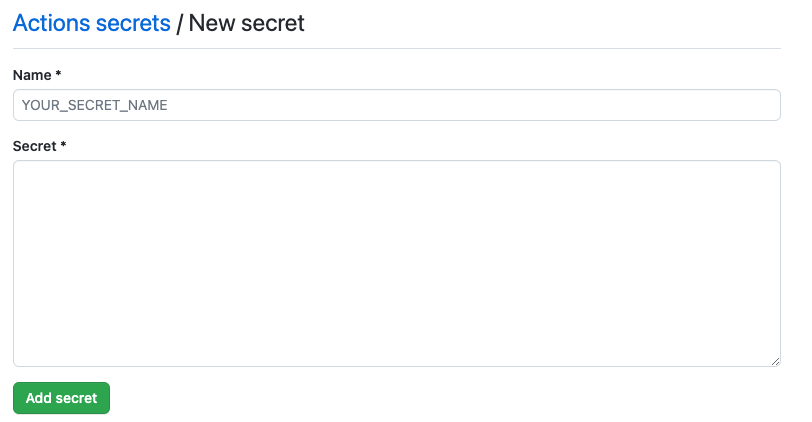
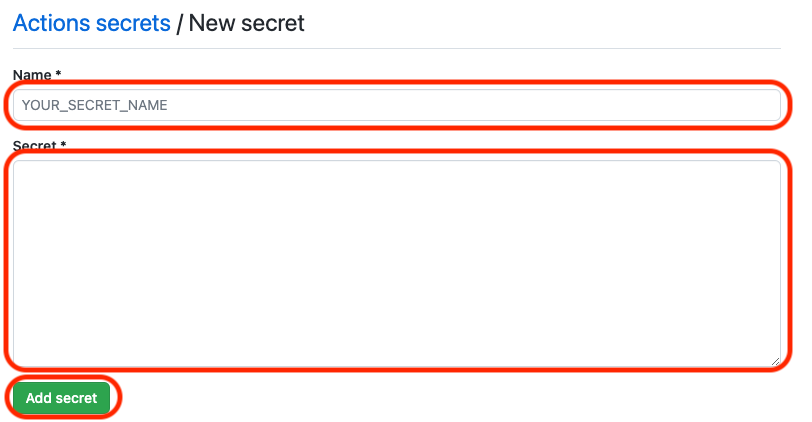
Continue updating GitHub docs

Changed region(s): [[0.0, 0.3389, 0.9852, 1.0], [0.0, 0.1848, 0.9852, 0.3081]]

diff --git a/docs/gh-actions/gh-first-time.md b/docs/gh-actions/gh-first-time.md
@@ -24,7 +24,6 @@ This is only available with Loop 3 and Loop development branch.
     * GitHub: Action: Build Loop
     * Apple: Set up Internal TestFlight Group
     * Phone: Install Loop with TestFlight
-    
 
 !!! question "FAQs"
     - **Do I need a Mac computer?** No. This can be done on any browser, although it will be easier using a computer or tablet than just using a phone.
@@ -374,8 +373,6 @@ If you are returning from a break, be sure to log into your GitHub account befor
 
 ### Configure Secrets
 
-Refer to the list of parameters found in [Save Your Information](#save-your-information). This is the time you will enter these items.
-
 You need to be logged into GitHub.
 
 1. Return to your forked copy of LoopWorkspace
@@ -400,7 +397,19 @@ You need to be logged into GitHub.
         ![action secrets screen](img/gh-actions-secrets.png){width="700"}
         {align="center"}
 
+1. Tap on the green button at the top right of your screen labeled "New repository secret" (refer to graphic above where the button is highlighted)
+    * A new dialog screen appears as shown in the graphic below
+    * Do not do anything yet - first read what you will do in the next section
+        * In the Name* box where it says `YOUR_SECRET_NAME`, you will click in the box and paste one of the 6 secret names, as directed in [Enter Each Secret](#enter-each-secret)
+        * In the Secret* box, you will click in the box and paste the value for that secret
+        * Once you click on Add Secret, the secret will be added
+
+![dialog for entering a new secret](img/new-secret-dialog.png){width="700"}
+{align="center"}
+
 #### Enter Each Secret
+
+Refer to the list of parameters found in [Save Your Information](#save-your-information). This is the time you will enter these items.
 
 Take a calming breath. This next part requires care. 
 
@@ -431,16 +440,6 @@ MATCH_PASSWORD
 
 * For the FASTLANE_KEY value, copy the entire contents from  "-----BEGIN PRIVATE KEY-----" through "-----END PRIVATE KEY-----"
 * For MATCH_PASSWORD value - make up a password for this, no need to save it
-
-Tap on the green button at the top right of your screen labeled "New repository secret" (refer to graphic above where the button is highlighted)
-
-* A new dialog screen appears as shown in the graphic below
-* In the Name* box where it says `YOUR_SECRET_NAME`, you will click in the box and paste one of the 6 secret names listed above
-* In the Secret* box, you will click in the box and paste the value for that secret
-* Once you click on Add Secret, the secret will be added
-
-![dialog for entering a new secret](img/new-secret-dialog.png){width="700"}
-{align="center"}
 
 Once all six secrets have been added to your LoopWorkspace, you are done with Settings. Your screen should look similar to the graphic below.
 
